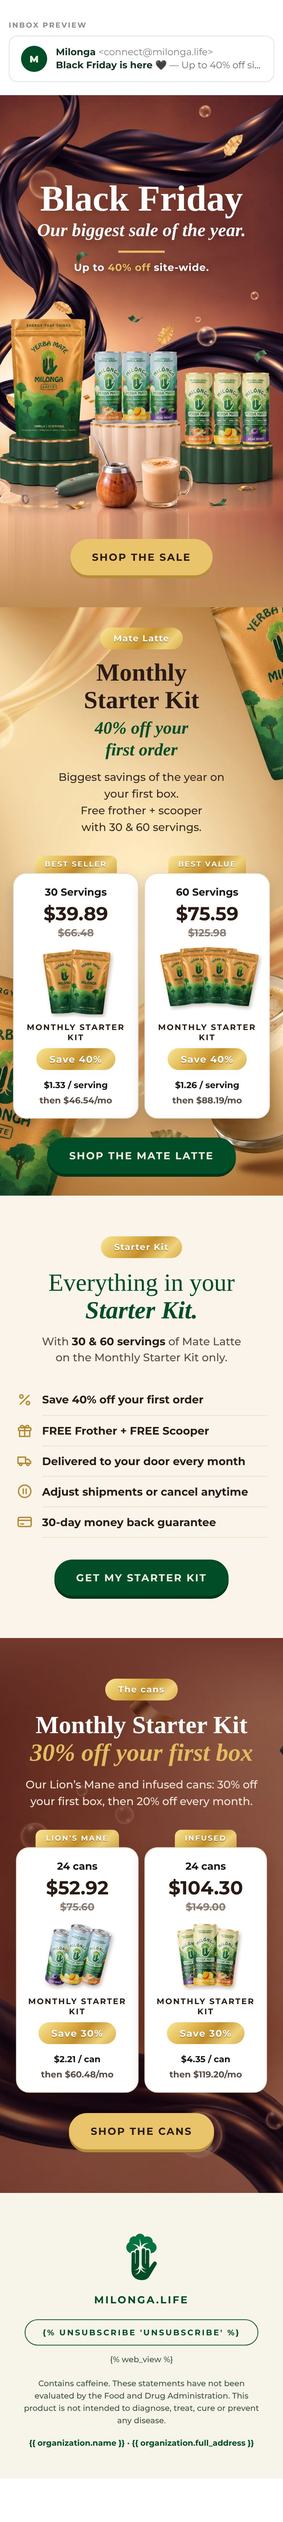
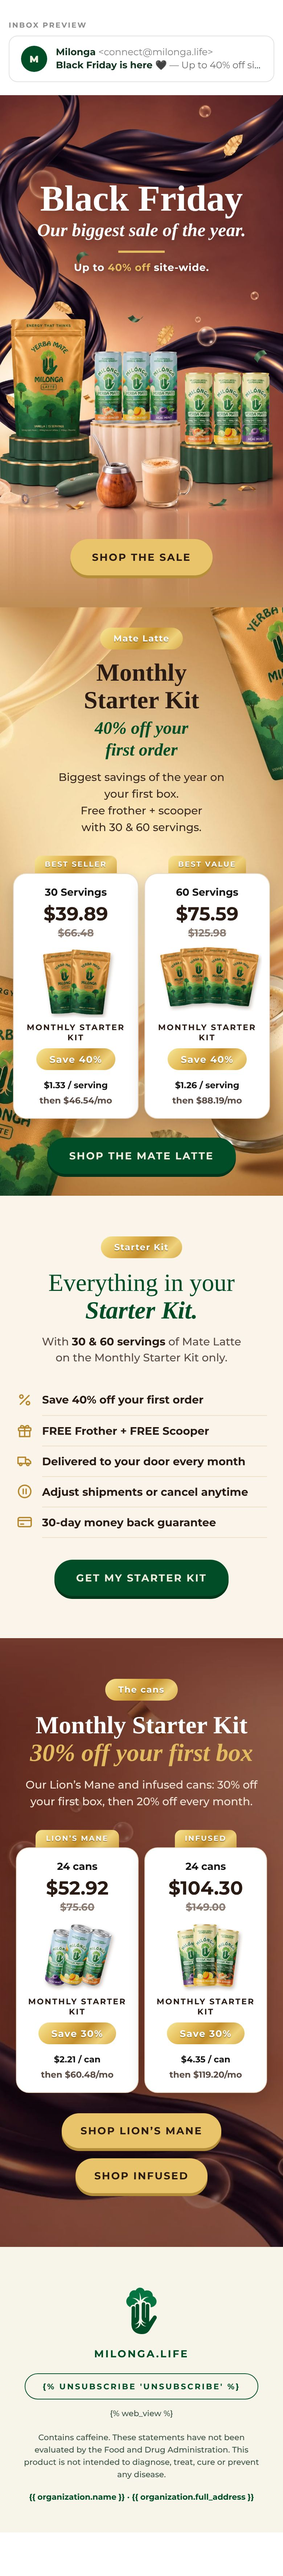
Black Friday 2026: CTAs to home, Mate Latte 30 (x2), Lion's Mane and Infused product pages; links checked
Claude-Session: https://claude.ai/code/session_01NhEtXPnfeCJfN73SqBkUZ5

diff --git a/email-ds/refine/bf-2026.html b/email-ds/refine/bf-2026.html
@@ -34,6 +34,8 @@ body{margin:0;background:#FFFFFF;padding:28px 0 60px}
     .hero-t2 { font-size:25px !important; line-height:30px !important; padding-top:4px !important; }
     .hero-rule { margin-top:12px !important; }
     .hero-t3 { font-size:14px !important; line-height:20px !important; padding-top:10px !important; }
+    .cta-col { display:block !important; width:100% !important; padding:0 0 14px !important; }
+    .cta-col .btn { padding:16px 26px !important; }
     .h-offer2 { font-size:24px !important; line-height:30px !important; }
     .ml-head { padding:0 58px !important; }
     .card-col { padding-left:4px !important; padding-right:4px !important; }
@@ -75,8 +77,8 @@ body{margin:0;background:#FFFFFF;padding:28px 0 60px}
 </td></tr>
 <tr><td align="center" background="../exports/klaviyo/bf-2026/img/cta-bg.jpg" bgcolor="#BE8C55" style="background-color:#BE8C55;background-image:url('../exports/klaviyo/bf-2026/img/cta-bg.jpg');background-size:100% 100%;background-repeat:no-repeat;padding:26px 40px 44px;font-family:'Montserrat','Helvetica Neue',Helvetica,Arial,sans-serif;">
 <!--[if mso]>
-<v:roundrect xmlns:v="urn:schemas-microsoft-com:vml" xmlns:w="urn:schemas-microsoft-com:office:word" href="https://milonga.life/collections/all?utm_source=klaviyo&amp;utm_medium=email&amp;utm_campaign=black_friday_2026&amp;utm_content=bf_hero_button" style="height:56px;v-text-anchor:middle;width:280px;" arcsize="50%" stroke="f" fillcolor="#E9C46A"><w:anchorlock/><center style="color:#2A1A14;font-family:Arial,sans-serif;font-size:16px;font-weight:bold;letter-spacing:2px;">Shop the sale</center></v:roundrect>
-<![endif]--><!--[if !mso]><!-- --><a href="https://milonga.life/collections/all?utm_source=klaviyo&amp;utm_medium=email&amp;utm_campaign=black_friday_2026&amp;utm_content=bf_hero_button" target="_blank" class="btn" style="display:inline-block;background-color:#E9C46A;border-radius:999px;padding:20px 40px;font-family:'Montserrat','Helvetica Neue',Helvetica,Arial,sans-serif;font-size:16px;line-height:16px;font-weight:700;letter-spacing:2px;text-transform:uppercase;white-space:nowrap;color:#2A1A14;text-decoration:none;box-shadow:0 4px 0 #B58E3A;">Shop the sale</a><!--<![endif]-->
+<v:roundrect xmlns:v="urn:schemas-microsoft-com:vml" xmlns:w="urn:schemas-microsoft-com:office:word" href="https://milonga.life/?utm_source=klaviyo&amp;utm_medium=email&amp;utm_campaign=black_friday_2026&amp;utm_content=bf_hero_button" style="height:56px;v-text-anchor:middle;width:280px;" arcsize="50%" stroke="f" fillcolor="#E9C46A"><w:anchorlock/><center style="color:#2A1A14;font-family:Arial,sans-serif;font-size:16px;font-weight:bold;letter-spacing:2px;">Shop the sale</center></v:roundrect>
+<![endif]--><!--[if !mso]><!-- --><a href="https://milonga.life/?utm_source=klaviyo&amp;utm_medium=email&amp;utm_campaign=black_friday_2026&amp;utm_content=bf_hero_button" target="_blank" class="btn" style="display:inline-block;background-color:#E9C46A;border-radius:999px;padding:20px 40px;font-family:'Montserrat','Helvetica Neue',Helvetica,Arial,sans-serif;font-size:16px;line-height:16px;font-weight:700;letter-spacing:2px;text-transform:uppercase;white-space:nowrap;color:#2A1A14;text-decoration:none;box-shadow:0 4px 0 #B58E3A;">Shop the sale</a><!--<![endif]-->
 </td></tr>
 
 <!-- ── 2 · MATE LATTE · the gold scene with its liquid turned dark chocolate is the background; the scene's
@@ -122,8 +124,8 @@ body{margin:0;background:#FFFFFF;padding:28px 0 60px}
 </td>
 </tr></table></div>
 <div style="padding-top:26px;"><!--[if mso]>
-<v:roundrect xmlns:v="urn:schemas-microsoft-com:vml" xmlns:w="urn:schemas-microsoft-com:office:word" href="https://milonga.life/products/the-original-mate-latte?selling_plan=8837562678&amp;variant=54302750245174&amp;utm_source=klaviyo&amp;utm_medium=email&amp;utm_campaign=black_friday_2026&amp;utm_content=bf_ml_30" style="height:56px;v-text-anchor:middle;width:320px;" arcsize="50%" stroke="f" fillcolor="#004D27"><w:anchorlock/><center style="color:#F0EFDF;font-family:Arial,sans-serif;font-size:16px;font-weight:bold;letter-spacing:2px;">Shop the Mate Latte</center></v:roundrect>
-<![endif]--><!--[if !mso]><!-- --><a href="https://milonga.life/products/the-original-mate-latte?selling_plan=8837562678&amp;variant=54302750245174&amp;utm_source=klaviyo&amp;utm_medium=email&amp;utm_campaign=black_friday_2026&amp;utm_content=bf_ml_30" target="_blank" class="btn" style="display:inline-block;background-color:#004D27;border-radius:999px;padding:20px 40px;font-family:'Montserrat','Helvetica Neue',Helvetica,Arial,sans-serif;font-size:16px;line-height:16px;font-weight:700;letter-spacing:2px;text-transform:uppercase;white-space:nowrap;color:#F0EFDF;text-decoration:none;box-shadow:0 4px 0 #00351B;">Shop the Mate Latte</a><!--<![endif]--></div>
+<v:roundrect xmlns:v="urn:schemas-microsoft-com:vml" xmlns:w="urn:schemas-microsoft-com:office:word" href="https://milonga.life/products/the-original-mate-latte?selling_plan=8837562678&amp;variant=54302750245174&amp;utm_source=klaviyo&amp;utm_medium=email&amp;utm_campaign=black_friday_2026&amp;utm_content=bf_ml_button" style="height:56px;v-text-anchor:middle;width:320px;" arcsize="50%" stroke="f" fillcolor="#004D27"><w:anchorlock/><center style="color:#F0EFDF;font-family:Arial,sans-serif;font-size:16px;font-weight:bold;letter-spacing:2px;">Shop the Mate Latte</center></v:roundrect>
+<![endif]--><!--[if !mso]><!-- --><a href="https://milonga.life/products/the-original-mate-latte?selling_plan=8837562678&amp;variant=54302750245174&amp;utm_source=klaviyo&amp;utm_medium=email&amp;utm_campaign=black_friday_2026&amp;utm_content=bf_ml_button" target="_blank" class="btn" style="display:inline-block;background-color:#004D27;border-radius:999px;padding:20px 40px;font-family:'Montserrat','Helvetica Neue',Helvetica,Arial,sans-serif;font-size:16px;line-height:16px;font-weight:700;letter-spacing:2px;text-transform:uppercase;white-space:nowrap;color:#F0EFDF;text-decoration:none;box-shadow:0 4px 0 #00351B;">Shop the Mate Latte</a><!--<![endif]--></div>
 </td></tr>
 
 <!-- ── 3 · THE STARTER KIT (30 and 60 servings only), on cream ── -->
@@ -140,8 +142,8 @@ body{margin:0;background:#FFFFFF;padding:28px 0 60px}
 <tr><td width="36" valign="middle" style="width:36px;padding:9px 0;"><img src="../exports/klaviyo/bf-2026/img/kit-card.png" width="24" height="24" alt="" role="presentation" style="display:block;width:24px;height:24px;border:0;"></td><td valign="middle" style="padding:9px 0;font-family:'Montserrat','Helvetica Neue',Helvetica,Arial,sans-serif;font-size:15px;line-height:21px;font-weight:700;color:#2A1A14;border-bottom:1px solid #EFDFC6;">30-day money back guarantee</td></tr>
 </table>
 <div style="padding-top:30px;"><!--[if mso]>
-<v:roundrect xmlns:v="urn:schemas-microsoft-com:vml" xmlns:w="urn:schemas-microsoft-com:office:word" href="https://milonga.life/products/the-original-mate-latte?selling_plan=8837562678&amp;variant=54302750245174&amp;utm_source=klaviyo&amp;utm_medium=email&amp;utm_campaign=black_friday_2026&amp;utm_content=bf_ml_30" style="height:56px;v-text-anchor:middle;width:320px;" arcsize="50%" stroke="f" fillcolor="#004D27"><w:anchorlock/><center style="color:#F0EFDF;font-family:Arial,sans-serif;font-size:16px;font-weight:bold;letter-spacing:2px;">Get my Starter Kit</center></v:roundrect>
-<![endif]--><!--[if !mso]><!-- --><a href="https://milonga.life/products/the-original-mate-latte?selling_plan=8837562678&amp;variant=54302750245174&amp;utm_source=klaviyo&amp;utm_medium=email&amp;utm_campaign=black_friday_2026&amp;utm_content=bf_ml_30" target="_blank" class="btn" style="display:inline-block;background-color:#004D27;border-radius:999px;padding:20px 40px;font-family:'Montserrat','Helvetica Neue',Helvetica,Arial,sans-serif;font-size:16px;line-height:16px;font-weight:700;letter-spacing:2px;text-transform:uppercase;white-space:nowrap;color:#F0EFDF;text-decoration:none;box-shadow:0 4px 0 #00351B;">Get my Starter Kit</a><!--<![endif]--></div>
+<v:roundrect xmlns:v="urn:schemas-microsoft-com:vml" xmlns:w="urn:schemas-microsoft-com:office:word" href="https://milonga.life/products/the-original-mate-latte?selling_plan=8837562678&amp;variant=54302750245174&amp;utm_source=klaviyo&amp;utm_medium=email&amp;utm_campaign=black_friday_2026&amp;utm_content=bf_kit_button" style="height:56px;v-text-anchor:middle;width:320px;" arcsize="50%" stroke="f" fillcolor="#004D27"><w:anchorlock/><center style="color:#F0EFDF;font-family:Arial,sans-serif;font-size:16px;font-weight:bold;letter-spacing:2px;">Get my Starter Kit</center></v:roundrect>
+<![endif]--><!--[if !mso]><!-- --><a href="https://milonga.life/products/the-original-mate-latte?selling_plan=8837562678&amp;variant=54302750245174&amp;utm_source=klaviyo&amp;utm_medium=email&amp;utm_campaign=black_friday_2026&amp;utm_content=bf_kit_button" target="_blank" class="btn" style="display:inline-block;background-color:#004D27;border-radius:999px;padding:20px 40px;font-family:'Montserrat','Helvetica Neue',Helvetica,Arial,sans-serif;font-size:16px;line-height:16px;font-weight:700;letter-spacing:2px;text-transform:uppercase;white-space:nowrap;color:#F0EFDF;text-decoration:none;box-shadow:0 4px 0 #00351B;">Get my Starter Kit</a><!--<![endif]--></div>
 </td></tr>
 
 <!-- ── 4 · THE CANS, on the darkened ribbons ── -->
@@ -182,9 +184,14 @@ body{margin:0;background:#FFFFFF;padding:28px 0 60px}
 </a>
 </td>
 </tr></table></div>
-<div style="padding-top:28px;"><!--[if mso]>
-<v:roundrect xmlns:v="urn:schemas-microsoft-com:vml" xmlns:w="urn:schemas-microsoft-com:office:word" href="https://milonga.life/collections/drinks?utm_source=klaviyo&amp;utm_medium=email&amp;utm_campaign=black_friday_2026&amp;utm_content=bf_cans_button" style="height:56px;v-text-anchor:middle;width:300px;" arcsize="50%" stroke="f" fillcolor="#E9C46A"><w:anchorlock/><center style="color:#2A1A14;font-family:Arial,sans-serif;font-size:16px;font-weight:bold;letter-spacing:2px;">Shop the cans</center></v:roundrect>
-<![endif]--><!--[if !mso]><!-- --><a href="https://milonga.life/collections/drinks?utm_source=klaviyo&amp;utm_medium=email&amp;utm_campaign=black_friday_2026&amp;utm_content=bf_cans_button" target="_blank" class="btn" style="display:inline-block;background-color:#E9C46A;border-radius:999px;padding:20px 40px;font-family:'Montserrat','Helvetica Neue',Helvetica,Arial,sans-serif;font-size:16px;line-height:16px;font-weight:700;letter-spacing:2px;text-transform:uppercase;white-space:nowrap;color:#2A1A14;text-decoration:none;box-shadow:0 4px 0 #B58E3A;">Shop the cans</a><!--<![endif]--></div>
+<table role="presentation" width="100%" cellpadding="0" cellspacing="0" border="0" style="margin-top:28px;table-layout:fixed;"><tr>
+<td class="cta-col" align="center" width="50%" style="width:50%;padding:0 6px;"><!--[if mso]>
+<v:roundrect xmlns:v="urn:schemas-microsoft-com:vml" xmlns:w="urn:schemas-microsoft-com:office:word" href="https://milonga.life/products/lion-s-mane?selling_plan=6832750902&amp;variant=53053588701494&amp;utm_source=klaviyo&amp;utm_medium=email&amp;utm_campaign=black_friday_2026&amp;utm_content=bf_lm_button" style="height:56px;v-text-anchor:middle;width:250px;" arcsize="50%" stroke="f" fillcolor="#E9C46A"><w:anchorlock/><center style="color:#2A1A14;font-family:Arial,sans-serif;font-size:16px;font-weight:bold;letter-spacing:2px;">Shop Lion’s Mane</center></v:roundrect>
+<![endif]--><!--[if !mso]><!-- --><a href="https://milonga.life/products/lion-s-mane?selling_plan=6832750902&amp;variant=53053588701494&amp;utm_source=klaviyo&amp;utm_medium=email&amp;utm_campaign=black_friday_2026&amp;utm_content=bf_lm_button" target="_blank" class="btn" style="display:inline-block;background-color:#E9C46A;border-radius:999px;padding:20px 40px;font-family:'Montserrat','Helvetica Neue',Helvetica,Arial,sans-serif;font-size:16px;line-height:16px;font-weight:700;letter-spacing:2px;text-transform:uppercase;white-space:nowrap;color:#2A1A14;text-decoration:none;box-shadow:0 4px 0 #B58E3A;">Shop Lion’s Mane</a><!--<![endif]--></td>
+<td class="cta-col" align="center" width="50%" style="width:50%;padding:0 6px;"><!--[if mso]>
+<v:roundrect xmlns:v="urn:schemas-microsoft-com:vml" xmlns:w="urn:schemas-microsoft-com:office:word" href="https://milonga.life/products/cannabis-regular-10mg?selling_plan=6832750902&amp;variant=52759098196278&amp;utm_source=klaviyo&amp;utm_medium=email&amp;utm_campaign=black_friday_2026&amp;utm_content=bf_infused_button" style="height:56px;v-text-anchor:middle;width:250px;" arcsize="50%" stroke="f" fillcolor="#E9C46A"><w:anchorlock/><center style="color:#2A1A14;font-family:Arial,sans-serif;font-size:16px;font-weight:bold;letter-spacing:2px;">Shop Infused</center></v:roundrect>
+<![endif]--><!--[if !mso]><!-- --><a href="https://milonga.life/products/cannabis-regular-10mg?selling_plan=6832750902&amp;variant=52759098196278&amp;utm_source=klaviyo&amp;utm_medium=email&amp;utm_campaign=black_friday_2026&amp;utm_content=bf_infused_button" target="_blank" class="btn" style="display:inline-block;background-color:#E9C46A;border-radius:999px;padding:20px 40px;font-family:'Montserrat','Helvetica Neue',Helvetica,Arial,sans-serif;font-size:16px;line-height:16px;font-weight:700;letter-spacing:2px;text-transform:uppercase;white-space:nowrap;color:#2A1A14;text-decoration:none;box-shadow:0 4px 0 #B58E3A;">Shop Infused</a><!--<![endif]--></td>
+</tr></table>
 </td></tr>
 
 <!-- ── FOOTER ─────────────────────────────────────────────────────── -->

diff --git a/email-ds/exports/klaviyo/bf-2026/bf-2026.html b/email-ds/exports/klaviyo/bf-2026/bf-2026.html
@@ -36,6 +36,8 @@
     .hero-t2 { font-size:25px !important; line-height:30px !important; padding-top:4px !important; }
     .hero-rule { margin-top:12px !important; }
     .hero-t3 { font-size:14px !important; line-height:20px !important; padding-top:10px !important; }
+    .cta-col { display:block !important; width:100% !important; padding:0 0 14px !important; }
+    .cta-col .btn { padding:16px 26px !important; }
     .h-offer2 { font-size:24px !important; line-height:30px !important; }
     .ml-head { padding:0 58px !important; }
     .card-col { padding-left:4px !important; padding-right:4px !important; }
@@ -76,8 +78,8 @@
 </td></tr>
 <tr><td align="center" background="https://cdn.klaviyomail.com/company/TwvSnK/images/f736b601-253f-4fc5-b4de-8a8bea1ca89f.jpeg" bgcolor="#BE8C55" style="background-color:#BE8C55;background-image:url('https://cdn.klaviyomail.com/company/TwvSnK/images/f736b601-253f-4fc5-b4de-8a8bea1ca89f.jpeg');background-size:100% 100%;background-repeat:no-repeat;padding:26px 40px 44px;font-family:'Montserrat','Helvetica Neue',Helvetica,Arial,sans-serif;">
 <!--[if mso]>
-<v:roundrect xmlns:v="urn:schemas-microsoft-com:vml" xmlns:w="urn:schemas-microsoft-com:office:word" href="https://milonga.life/collections/all?utm_source=klaviyo&amp;utm_medium=email&amp;utm_campaign=black_friday_2026&amp;utm_content=bf_hero_button" style="height:56px;v-text-anchor:middle;width:280px;" arcsize="50%" stroke="f" fillcolor="#E9C46A"><w:anchorlock/><center style="color:#2A1A14;font-family:Arial,sans-serif;font-size:16px;font-weight:bold;letter-spacing:2px;">Shop the sale</center></v:roundrect>
-<![endif]--><!--[if !mso]><!-- --><a href="https://milonga.life/collections/all?utm_source=klaviyo&amp;utm_medium=email&amp;utm_campaign=black_friday_2026&amp;utm_content=bf_hero_button" target="_blank" class="btn" style="display:inline-block;background-color:#E9C46A;border-radius:999px;padding:20px 40px;font-family:'Montserrat','Helvetica Neue',Helvetica,Arial,sans-serif;font-size:16px;line-height:16px;font-weight:700;letter-spacing:2px;text-transform:uppercase;white-space:nowrap;color:#2A1A14;text-decoration:none;box-shadow:0 4px 0 #B58E3A;">Shop the sale</a><!--<![endif]-->
+<v:roundrect xmlns:v="urn:schemas-microsoft-com:vml" xmlns:w="urn:schemas-microsoft-com:office:word" href="https://milonga.life/?utm_source=klaviyo&amp;utm_medium=email&amp;utm_campaign=black_friday_2026&amp;utm_content=bf_hero_button" style="height:56px;v-text-anchor:middle;width:280px;" arcsize="50%" stroke="f" fillcolor="#E9C46A"><w:anchorlock/><center style="color:#2A1A14;font-family:Arial,sans-serif;font-size:16px;font-weight:bold;letter-spacing:2px;">Shop the sale</center></v:roundrect>
+<![endif]--><!--[if !mso]><!-- --><a href="https://milonga.life/?utm_source=klaviyo&amp;utm_medium=email&amp;utm_campaign=black_friday_2026&amp;utm_content=bf_hero_button" target="_blank" class="btn" style="display:inline-block;background-color:#E9C46A;border-radius:999px;padding:20px 40px;font-family:'Montserrat','Helvetica Neue',Helvetica,Arial,sans-serif;font-size:16px;line-height:16px;font-weight:700;letter-spacing:2px;text-transform:uppercase;white-space:nowrap;color:#2A1A14;text-decoration:none;box-shadow:0 4px 0 #B58E3A;">Shop the sale</a><!--<![endif]-->
 </td></tr>
 
 <!-- ── 2 · MATE LATTE · the gold scene with its liquid turned dark chocolate is the background; the scene's
@@ -123,8 +125,8 @@
 </td>
 </tr></table></div>
 <div style="padding-top:26px;"><!--[if mso]>
-<v:roundrect xmlns:v="urn:schemas-microsoft-com:vml" xmlns:w="urn:schemas-microsoft-com:office:word" href="https://milonga.life/products/the-original-mate-latte?selling_plan=8837562678&amp;variant=54302750245174&amp;utm_source=klaviyo&amp;utm_medium=email&amp;utm_campaign=black_friday_2026&amp;utm_content=bf_ml_30" style="height:56px;v-text-anchor:middle;width:320px;" arcsize="50%" stroke="f" fillcolor="#004D27"><w:anchorlock/><center style="color:#F0EFDF;font-family:Arial,sans-serif;font-size:16px;font-weight:bold;letter-spacing:2px;">Shop the Mate Latte</center></v:roundrect>
-<![endif]--><!--[if !mso]><!-- --><a href="https://milonga.life/products/the-original-mate-latte?selling_plan=8837562678&amp;variant=54302750245174&amp;utm_source=klaviyo&amp;utm_medium=email&amp;utm_campaign=black_friday_2026&amp;utm_content=bf_ml_30" target="_blank" class="btn" style="display:inline-block;background-color:#004D27;border-radius:999px;padding:20px 40px;font-family:'Montserrat','Helvetica Neue',Helvetica,Arial,sans-serif;font-size:16px;line-height:16px;font-weight:700;letter-spacing:2px;text-transform:uppercase;white-space:nowrap;color:#F0EFDF;text-decoration:none;box-shadow:0 4px 0 #00351B;">Shop the Mate Latte</a><!--<![endif]--></div>
+<v:roundrect xmlns:v="urn:schemas-microsoft-com:vml" xmlns:w="urn:schemas-microsoft-com:office:word" href="https://milonga.life/products/the-original-mate-latte?selling_plan=8837562678&amp;variant=54302750245174&amp;utm_source=klaviyo&amp;utm_medium=email&amp;utm_campaign=black_friday_2026&amp;utm_content=bf_ml_button" style="height:56px;v-text-anchor:middle;width:320px;" arcsize="50%" stroke="f" fillcolor="#004D27"><w:anchorlock/><center style="color:#F0EFDF;font-family:Arial,sans-serif;font-size:16px;font-weight:bold;letter-spacing:2px;">Shop the Mate Latte</center></v:roundrect>
+<![endif]--><!--[if !mso]><!-- --><a href="https://milonga.life/products/the-original-mate-latte?selling_plan=8837562678&amp;variant=54302750245174&amp;utm_source=klaviyo&amp;utm_medium=email&amp;utm_campaign=black_friday_2026&amp;utm_content=bf_ml_button" target="_blank" class="btn" style="display:inline-block;background-color:#004D27;border-radius:999px;padding:20px 40px;font-family:'Montserrat','Helvetica Neue',Helvetica,Arial,sans-serif;font-size:16px;line-height:16px;font-weight:700;letter-spacing:2px;text-transform:uppercase;white-space:nowrap;color:#F0EFDF;text-decoration:none;box-shadow:0 4px 0 #00351B;">Shop the Mate Latte</a><!--<![endif]--></div>
 </td></tr>
 
 <!-- ── 3 · THE STARTER KIT (30 and 60 servings only), on cream ── -->
@@ -141,8 +143,8 @@
 <tr><td width="36" valign="middle" style="width:36px;padding:9px 0;"><img src="https://cdn.klaviyomail.com/company/TwvSnK/images/7355a182-9dee-4eac-bff7-61d1b47c5bd6.png" width="24" height="24" alt="" role="presentation" style="display:block;width:24px;height:24px;border:0;"></td><td valign="middle" style="padding:9px 0;font-family:'Montserrat','Helvetica Neue',Helvetica,Arial,sans-serif;font-size:15px;line-height:21px;font-weight:700;color:#2A1A14;border-bottom:1px solid #EFDFC6;">30-day money back guarantee</td></tr>
 </table>
 <div style="padding-top:30px;"><!--[if mso]>
-<v:roundrect xmlns:v="urn:schemas-microsoft-com:vml" xmlns:w="urn:schemas-microsoft-com:office:word" href="https://milonga.life/products/the-original-mate-latte?selling_plan=8837562678&amp;variant=54302750245174&amp;utm_source=klaviyo&amp;utm_medium=email&amp;utm_campaign=black_friday_2026&amp;utm_content=bf_ml_30" style="height:56px;v-text-anchor:middle;width:320px;" arcsize="50%" stroke="f" fillcolor="#004D27"><w:anchorlock/><center style="color:#F0EFDF;font-family:Arial,sans-serif;font-size:16px;font-weight:bold;letter-spacing:2px;">Get my Starter Kit</center></v:roundrect>
-<![endif]--><!--[if !mso]><!-- --><a href="https://milonga.life/products/the-original-mate-latte?selling_plan=8837562678&amp;variant=54302750245174&amp;utm_source=klaviyo&amp;utm_medium=email&amp;utm_campaign=black_friday_2026&amp;utm_content=bf_ml_30" target="_blank" class="btn" style="display:inline-block;background-color:#004D27;border-radius:999px;padding:20px 40px;font-family:'Montserrat','Helvetica Neue',Helvetica,Arial,sans-serif;font-size:16px;line-height:16px;font-weight:700;letter-spacing:2px;text-transform:uppercase;white-space:nowrap;color:#F0EFDF;text-decoration:none;box-shadow:0 4px 0 #00351B;">Get my Starter Kit</a><!--<![endif]--></div>
+<v:roundrect xmlns:v="urn:schemas-microsoft-com:vml" xmlns:w="urn:schemas-microsoft-com:office:word" href="https://milonga.life/products/the-original-mate-latte?selling_plan=8837562678&amp;variant=54302750245174&amp;utm_source=klaviyo&amp;utm_medium=email&amp;utm_campaign=black_friday_2026&amp;utm_content=bf_kit_button" style="height:56px;v-text-anchor:middle;width:320px;" arcsize="50%" stroke="f" fillcolor="#004D27"><w:anchorlock/><center style="color:#F0EFDF;font-family:Arial,sans-serif;font-size:16px;font-weight:bold;letter-spacing:2px;">Get my Starter Kit</center></v:roundrect>
+<![endif]--><!--[if !mso]><!-- --><a href="https://milonga.life/products/the-original-mate-latte?selling_plan=8837562678&amp;variant=54302750245174&amp;utm_source=klaviyo&amp;utm_medium=email&amp;utm_campaign=black_friday_2026&amp;utm_content=bf_kit_button" target="_blank" class="btn" style="display:inline-block;background-color:#004D27;border-radius:999px;padding:20px 40px;font-family:'Montserrat','Helvetica Neue',Helvetica,Arial,sans-serif;font-size:16px;line-height:16px;font-weight:700;letter-spacing:2px;text-transform:uppercase;white-space:nowrap;color:#F0EFDF;text-decoration:none;box-shadow:0 4px 0 #00351B;">Get my Starter Kit</a><!--<![endif]--></div>
 </td></tr>
 
 <!-- ── 4 · THE CANS, on the darkened ribbons ── -->
@@ -183,9 +185,14 @@
 </a>
 </td>
 </tr></table></div>
-<div style="padding-top:28px;"><!--[if mso]>
-<v:roundrect xmlns:v="urn:schemas-microsoft-com:vml" xmlns:w="urn:schemas-microsoft-com:office:word" href="https://milonga.life/collections/drinks?utm_source=klaviyo&amp;utm_medium=email&amp;utm_campaign=black_friday_2026&amp;utm_content=bf_cans_button" style="height:56px;v-text-anchor:middle;width:300px;" arcsize="50%" stroke="f" fillcolor="#E9C46A"><w:anchorlock/><center style="color:#2A1A14;font-family:Arial,sans-serif;font-size:16px;font-weight:bold;letter-spacing:2px;">Shop the cans</center></v:roundrect>
-<![endif]--><!--[if !mso]><!-- --><a href="https://milonga.life/collections/drinks?utm_source=klaviyo&amp;utm_medium=email&amp;utm_campaign=black_friday_2026&amp;utm_content=bf_cans_button" target="_blank" class="btn" style="display:inline-block;background-color:#E9C46A;border-radius:999px;padding:20px 40px;font-family:'Montserrat','Helvetica Neue',Helvetica,Arial,sans-serif;font-size:16px;line-height:16px;font-weight:700;letter-spacing:2px;text-transform:uppercase;white-space:nowrap;color:#2A1A14;text-decoration:none;box-shadow:0 4px 0 #B58E3A;">Shop the cans</a><!--<![endif]--></div>
+<table role="presentation" width="100%" cellpadding="0" cellspacing="0" border="0" style="margin-top:28px;table-layout:fixed;"><tr>
+<td class="cta-col" align="center" width="50%" style="width:50%;padding:0 6px;"><!--[if mso]>
+<v:roundrect xmlns:v="urn:schemas-microsoft-com:vml" xmlns:w="urn:schemas-microsoft-com:office:word" href="https://milonga.life/products/lion-s-mane?selling_plan=6832750902&amp;variant=53053588701494&amp;utm_source=klaviyo&amp;utm_medium=email&amp;utm_campaign=black_friday_2026&amp;utm_content=bf_lm_button" style="height:56px;v-text-anchor:middle;width:250px;" arcsize="50%" stroke="f" fillcolor="#E9C46A"><w:anchorlock/><center style="color:#2A1A14;font-family:Arial,sans-serif;font-size:16px;font-weight:bold;letter-spacing:2px;">Shop Lion’s Mane</center></v:roundrect>
+<![endif]--><!--[if !mso]><!-- --><a href="https://milonga.life/products/lion-s-mane?selling_plan=6832750902&amp;variant=53053588701494&amp;utm_source=klaviyo&amp;utm_medium=email&amp;utm_campaign=black_friday_2026&amp;utm_content=bf_lm_button" target="_blank" class="btn" style="display:inline-block;background-color:#E9C46A;border-radius:999px;padding:20px 40px;font-family:'Montserrat','Helvetica Neue',Helvetica,Arial,sans-serif;font-size:16px;line-height:16px;font-weight:700;letter-spacing:2px;text-transform:uppercase;white-space:nowrap;color:#2A1A14;text-decoration:none;box-shadow:0 4px 0 #B58E3A;">Shop Lion’s Mane</a><!--<![endif]--></td>
+<td class="cta-col" align="center" width="50%" style="width:50%;padding:0 6px;"><!--[if mso]>
+<v:roundrect xmlns:v="urn:schemas-microsoft-com:vml" xmlns:w="urn:schemas-microsoft-com:office:word" href="https://milonga.life/products/cannabis-regular-10mg?selling_plan=6832750902&amp;variant=52759098196278&amp;utm_source=klaviyo&amp;utm_medium=email&amp;utm_campaign=black_friday_2026&amp;utm_content=bf_infused_button" style="height:56px;v-text-anchor:middle;width:250px;" arcsize="50%" stroke="f" fillcolor="#E9C46A"><w:anchorlock/><center style="color:#2A1A14;font-family:Arial,sans-serif;font-size:16px;font-weight:bold;letter-spacing:2px;">Shop Infused</center></v:roundrect>
+<![endif]--><!--[if !mso]><!-- --><a href="https://milonga.life/products/cannabis-regular-10mg?selling_plan=6832750902&amp;variant=52759098196278&amp;utm_source=klaviyo&amp;utm_medium=email&amp;utm_campaign=black_friday_2026&amp;utm_content=bf_infused_button" target="_blank" class="btn" style="display:inline-block;background-color:#E9C46A;border-radius:999px;padding:20px 40px;font-family:'Montserrat','Helvetica Neue',Helvetica,Arial,sans-serif;font-size:16px;line-height:16px;font-weight:700;letter-spacing:2px;text-transform:uppercase;white-space:nowrap;color:#2A1A14;text-decoration:none;box-shadow:0 4px 0 #B58E3A;">Shop Infused</a><!--<![endif]--></td>
+</tr></table>
 </td></tr>
 
 <!-- ── FOOTER ─────────────────────────────────────────────────────── -->
